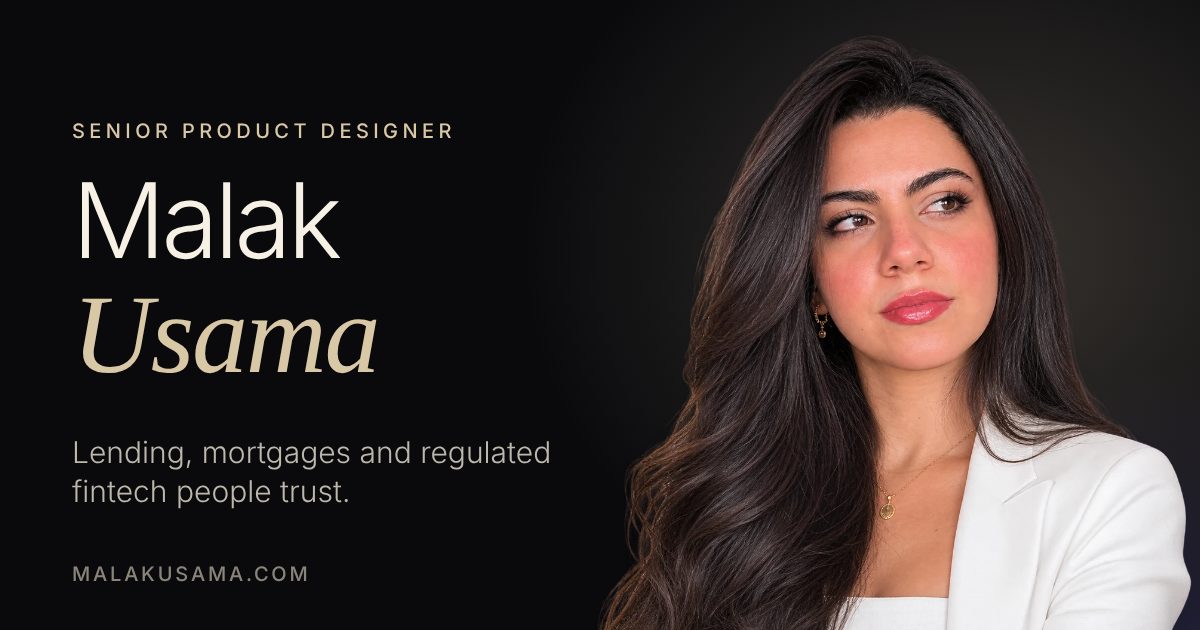
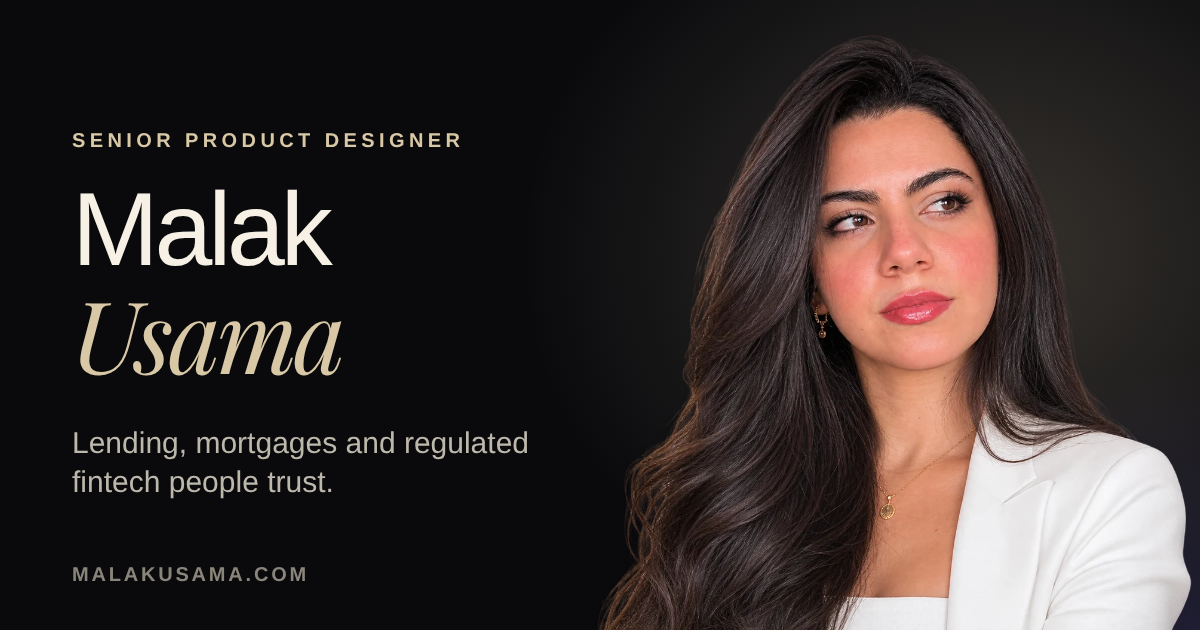
Swap italic accent font to Playfair Display with lining numerals; refresh share image
Claude-Session: https://claude.ai/code/session_016TBd8HnehSKzb79idddwLs

diff --git a/m-about.html b/m-about.html
@@ -16,7 +16,7 @@ else if(m&&back[p]===undefined&&0){}
 <body>
 <x-dc>
 <helmet>
-<link href="https://fonts.googleapis.com/css2?family=Cormorant+Garamond:ital,wght@1,300;1,400&family=Inter+Tight:ital,wght@0,300;0,400;0,500;1,300;1,400&family=Inter:wght@400;500;600&display=swap" rel="stylesheet">
+<link href="https://fonts.googleapis.com/css2?family=Playfair+Display:ital,wght@1,400;1,500&family=Inter+Tight:ital,wght@0,300;0,400;0,500;1,300;1,400&family=Inter:wght@400;500;600&display=swap" rel="stylesheet">
 <style>
 html{scroll-behavior:smooth;-webkit-text-size-adjust:100%}
 body{margin:0;background:#050505;color:#f6f1e4;font-family:Inter,system-ui,sans-serif;-webkit-font-smoothing:antialiased;overflow-x:hidden}
@@ -28,7 +28,7 @@ h1,h2,h3,p,figure{margin:0}
 .gl{position:absolute;border-radius:50%;filter:blur(60px);animation:drift 18s ease-in-out infinite}
 @keyframes drift{0%,100%{transform:translate(0,0) scale(1)}50%{transform:translate(24px,-20px) scale(1.08)}}
 .bar{position:sticky;top:0;z-index:50;display:flex;align-items:center;justify-content:space-between;height:64px;padding:0 20px;background:rgba(5,5,5,.72);-webkit-backdrop-filter:blur(14px);backdrop-filter:blur(14px);border-bottom:1px solid rgba(255,255,255,.06)}
-.wm{font-family:'Cormorant Garamond',Georgia,serif;font-style:italic;font-weight:400;font-size:26px;letter-spacing:.01em;color:#f6f1e4;line-height:1}
+.wm{font-family:'Playfair Display',Georgia,serif;font-size-adjust:.46;font-variant-numeric:lining-nums;font-style:italic;font-weight:400;font-size:26px;letter-spacing:.01em;color:#f6f1e4;line-height:1}
 .mb{display:inline-flex;align-items:center;gap:10px;height:44px;padding:0 18px;border-radius:999px;border:1px solid rgba(255,255,255,.22);background:rgba(255,255,255,.06);color:#f6f1e4;font:500 14px Inter,sans-serif;cursor:pointer}
 .mb i{display:block;width:14px;height:8px;border-top:1.5px solid #f6f1e4;border-bottom:1.5px solid #f6f1e4;position:relative}
 .ov{position:fixed;inset:0;z-index:120;background:rgba(5,5,5,.97);-webkit-backdrop-filter:blur(18px);backdrop-filter:blur(18px);display:flex;flex-direction:column;padding:0 20px 32px;transition:opacity .35s ease,transform .45s cubic-bezier(.2,.7,.2,1)}
@@ -47,7 +47,7 @@ h1,h2,h3,p,figure{margin:0}
 .pf .st{position:absolute;inset:0;-webkit-mask-image:linear-gradient(180deg,#000 64%,transparent 100%);mask-image:linear-gradient(180deg,#000 64%,transparent 100%)}
 .pf img{width:100%;height:100%;object-fit:contain;object-position:50% 100%;display:block;filter:grayscale(1) contrast(1.05) brightness(.7);transition:filter .6s ease}
 .pf:active img{filter:grayscale(.2) contrast(1.02) brightness(.9)}
-.tap{position:absolute;left:0;right:0;bottom:6%;text-align:center;font:italic 300 20px 'Cormorant Garamond',Georgia,serif;color:#cfcac0;z-index:3}
+.tap{position:absolute;left:0;right:0;bottom:6%;text-align:center;font:italic 300 20px 'Playfair Display',Georgia,serif;font-size-adjust:.46;font-variant-numeric:lining-nums;color:#cfcac0;z-index:3}
 .sub{position:relative;z-index:3;margin-top:-6px;font-size:18px;line-height:1.6;font-weight:300;color:#cfcac0}
 .cta{position:relative;z-index:3;margin-top:28px;display:flex;gap:12px}
 .bt{flex:1;display:inline-flex;align-items:center;justify-content:center;height:54px;border-radius:999px;font:500 15px Inter,sans-serif;border:1px solid rgba(255,255,255,.26);color:#f6f1e4;background:linear-gradient(135deg,rgba(255,255,255,.16),rgba(255,255,255,.05))}
@@ -67,7 +67,7 @@ h1,h2,h3,p,figure{margin:0}
 .k{font-size:12px;letter-spacing:.2em;text-transform:uppercase;color:#8d8a84}
 .t2{margin-top:12px;font:300 40px/1.08 'Inter Tight',Inter,sans-serif;letter-spacing:-.035em}
 .t2 em{font-style:italic;color:#D9C8A6}
-.hint{font:italic 300 18px 'Cormorant Garamond',Georgia,serif;color:#a7a29a;white-space:nowrap;padding-bottom:6px}
+.hint{font:italic 300 18px 'Playfair Display',Georgia,serif;font-size-adjust:.46;font-variant-numeric:lining-nums;color:#a7a29a;white-space:nowrap;padding-bottom:6px}
 .sn{display:flex;align-items:flex-start;gap:14px;overflow-x:auto;scroll-snap-type:x mandatory;padding:34px 20px 8px;scroll-padding-left:20px;-webkit-overflow-scrolling:touch;scrollbar-width:none}
 .sn::-webkit-scrollbar{display:none}
 .wc{flex:0 0 82%;scroll-snap-align:start;display:flex;flex-direction:column;color:#f6f1e4}
@@ -83,7 +83,7 @@ h1,h2,h3,p,figure{margin:0}
 .wb{margin-top:14px;display:inline-flex;align-items:center;gap:8px;font:500 14px Inter,sans-serif;color:#f6f1e4;height:44px}
 .hw{padding:34px 20px 0;display:flex;flex-direction:column;gap:12px}
 .hc{padding:24px;border:1px solid rgba(255,255,255,.12);border-radius:24px;background:rgba(255,255,255,.03)}
-.hn{font:italic 300 54px/1 'Cormorant Garamond',Georgia,serif;color:#D9C8A6}
+.hn{font:italic 300 54px/1 'Playfair Display',Georgia,serif;font-size-adjust:.46;font-variant-numeric:lining-nums;color:#D9C8A6}
 .hc h3{margin-top:14px;font:400 24px/1.2 'Inter Tight',Inter,sans-serif;letter-spacing:-.02em}
 .hc p{margin-top:10px;font-size:15.5px;line-height:1.65;color:#a7a29a}
 .rc{flex:0 0 84%;scroll-snap-align:start;display:flex;flex-direction:column;justify-content:space-between;gap:26px;padding:26px;border:1px solid rgba(255,255,255,.12);border-radius:24px;background:rgba(255,255,255,.03)}
@@ -115,7 +115,7 @@ h1,h2,h3,p,figure{margin:0}
 @media (prefers-reduced-motion:reduce){.gl,.mt{animation:none}.h1,.pf{transform:none !important}.rvl{animation:none}html{scroll-behavior:auto}}
 
 .ah{position:relative;padding:30px 20px 0}
-.hi{font:italic 300 26px 'Cormorant Garamond',Georgia,serif;color:#D9C8A6}
+.hi{font:italic 300 26px 'Playfair Display',Georgia,serif;font-size-adjust:.46;font-variant-numeric:lining-nums;color:#D9C8A6}
 .ap{display:flex;align-items:center;gap:16px;margin:20px 0 0}
 .ap img{flex:0 0 72px;width:72px;height:72px;border-radius:50%;object-fit:cover;object-position:50% 22%;display:block;border:1px solid rgba(255,255,255,.18);filter:grayscale(.15)}
 .apc{display:flex;flex-direction:column;gap:3px}
@@ -145,10 +145,10 @@ h1,h2,h3,p,figure{margin:0}
 .nw-r{position:relative;display:grid;grid-template-columns:96px minmax(0,1fr) minmax(0,1fr);align-items:baseline;gap:24px;padding:30px 0;border-bottom:1px solid #26262c;transition:padding .35s ease}
 .nw-r:after{content:"";position:absolute;left:0;bottom:-1px;height:1px;width:0;background:#D9C8A6;transition:width .55s ease}
 .nw-r:hover:after{width:100%}.nw-r:hover{padding-left:14px}
-.nw-n{font:italic 300 46px/1 'Cormorant Garamond',serif;color:#5d5542;transition:color .3s}.nw-r:hover .nw-n{color:#D9C8A6}
+.nw-n{font:italic 300 46px/1 'Playfair Display',serif;font-size-adjust:.46;font-variant-numeric:lining-nums;color:#5d5542;transition:color .3s}.nw-r:hover .nw-n{color:#D9C8A6}
 .nb-c .nw-r h4{font:300 clamp(24px,2.7vw,40px)/1.08 'Inter Tight',Inter,sans-serif;letter-spacing:-.03em}
 .nb-c .nw-r p{font-size:16px;max-width:34ch;justify-self:start}
-.nw-q{margin-top:52px;font:italic 300 clamp(28px,3.6vw,52px)/1.1 'Cormorant Garamond',serif;color:#f6f1e4;max-width:26ch;text-wrap:balance}
+.nw-q{margin-top:52px;font:italic 300 clamp(28px,3.6vw,52px)/1.1 'Playfair Display',serif;font-size-adjust:.46;font-variant-numeric:lining-nums;color:#f6f1e4;max-width:26ch;text-wrap:balance}
 .nw-q em{color:#D9C8A6}
 @media(max-width:760px){.nb-work{padding:30px 22px 30px}.nw-l{margin-top:32px}.nw-r{grid-template-columns:44px minmax(0,1fr);gap:6px 14px;padding:22px 0}.nw-n{font-size:34px;grid-row:1/3;align-self:start}.nb-c .nw-r h4{font-size:24px}.nb-c .nw-r p{grid-column:2;font-size:15px}.nw-r:hover{padding-left:0}.nw-q{margin-top:36px;font-size:30px}}
 .nb-wrap{position:relative;z-index:6;box-sizing:border-box;width:100%;align-self:stretch;max-width:1440px;margin:0 auto;padding:0 56px 40px;font-family:Inter,system-ui,sans-serif;color:#f6f1e4;text-align:left;font-size:15px;line-height:1.5}
@@ -158,7 +158,7 @@ h1,h2,h3,p,figure{margin:0}
 .nb-eb{font-size:12px;letter-spacing:.2em;text-transform:uppercase;color:#a7a29a;margin-bottom:18px}
 .nb-hg{display:grid;grid-template-columns:minmax(0,1fr) auto;gap:clamp(20px,4vw,48px);align-items:center}
 .nb-hd{font:300 clamp(30px,4.2vw,50px)/1.1 'Inter Tight',Inter,sans-serif;letter-spacing:-.03em;margin:0;max-width:22ch;text-wrap:balance;color:#f6f1e4}
-.nb-hd em,.nb-c h3 em{font:italic 300 1.12em/1 'Cormorant Garamond',serif;letter-spacing:0;color:#D9C8A6}
+.nb-hd em,.nb-c h3 em{font:italic 300 1.12em/1 'Playfair Display',serif;font-size-adjust:.46;font-variant-numeric:lining-nums;letter-spacing:0;color:#D9C8A6}
 .nb-sub{color:#a7a29a;max-width:52ch;margin:18px 0 0;font-size:15px;line-height:1.5}
 .nb-mw{position:relative;margin:-24px -30px -24px 0;width:clamp(220px,28vw,400px)}.nb-me{width:100% !important}.nb-bub{position:absolute;left:-4%;top:12%;background:#f6f1e4;color:#14131a;font-size:15px;font-weight:500;padding:11px 16px;border-radius:18px 18px 18px 4px;white-space:nowrap;box-shadow:0 8px 24px rgba(0,0,0,.4);opacity:0;animation:nbbub .6s 1s cubic-bezier(.2,.7,.2,1) forwards}.nb-b2{top:calc(12% + 54px);left:-14%;border-radius:18px 18px 4px 18px;animation-delay:2.2s}@keyframes nbbub{from{opacity:0;transform:translateY(8px) scale(.92)}to{opacity:1;transform:none}}.nb-me{width:clamp(220px,28vw,400px);height:auto;aspect-ratio:478/358;margin:0;object-fit:cover;display:block;filter:brightness(.8) contrast(1.12) saturate(1.05);-webkit-mask-image:radial-gradient(ellipse 33% 44% at 50% 47%,#000 18%,rgba(0,0,0,.55) 52%,rgba(0,0,0,.15) 80%,transparent 100%);mask-image:radial-gradient(ellipse 33% 44% at 50% 47%,#000 18%,rgba(0,0,0,.55) 52%,rgba(0,0,0,.15) 80%,transparent 100%)}
 .nb-st{display:flex;margin-top:40px;border-top:1px solid #26262c;flex-wrap:wrap}
@@ -175,7 +175,7 @@ h1,h2,h3,p,figure{margin:0}
 .nb-c p{margin:0;color:#a7a29a;line-height:1.6;font-size:15px}
 .nb-c p.nb-l{color:#cfcac0}
 .nb-c p.nb-sub{margin:18px 0 0}
-.nb-num{font:italic 300 30px/1 'Cormorant Garamond',serif;color:#D9C8A6}
+.nb-num{font:italic 300 30px/1 'Playfair Display',serif;font-size-adjust:.46;font-variant-numeric:lining-nums;color:#D9C8A6}
 .nb-role{font-size:12px;letter-spacing:.14em;text-transform:uppercase;color:#D9C8A6}
 .nb-feat{background:linear-gradient(160deg,#14130f,rgba(12,12,16,.92))}
 .nb-fact{display:flex;flex-direction:column;gap:2px;padding:12px 0;border-top:1px solid #26262c}
@@ -184,7 +184,7 @@ h1,h2,h3,p,figure{margin:0}
 .nb-icb{width:52px;height:52px;border:1px solid #26262c;border-radius:14px;display:grid;place-items:center;background:rgba(255,255,255,.02);margin-bottom:6px}
 .nb-cloud{display:flex;flex-wrap:wrap;gap:10px}
 .nb-cloud span{border:1px solid #26262c;border-radius:999px;padding:12px 22px;font:300 clamp(18px,2.2vw,26px)/1 'Inter Tight',Inter,sans-serif;letter-spacing:-.02em;color:#f6f1e4}
-.nb-cloud span:nth-child(3n+1){font:italic 300 clamp(20px,2.5vw,30px)/1 'Cormorant Garamond',serif;color:#D9C8A6;border-color:#4a4333}
+.nb-cloud span:nth-child(3n+1){font:italic 300 clamp(20px,2.5vw,30px)/1 'Playfair Display',serif;font-size-adjust:.46;font-variant-numeric:lining-nums;color:#D9C8A6;border-color:#4a4333}
 .nb-big{font:300 clamp(30px,4.4vw,56px)/1.05 'Inter Tight',Inter,sans-serif;letter-spacing:-.03em;max-width:20ch;color:#f6f1e4;text-wrap:balance}
 .nb-close{padding:44px 36px;min-height:260px;justify-content:flex-end;gap:14px}
 .nb-k{animation:nbkey 3.2s ease-in-out infinite;transform-box:fill-box}.nb-k2{animation-delay:.25s}.nb-k3{animation-delay:.5s}.nb-k4{animation-delay:.75s}

diff --git a/about.html b/about.html
@@ -16,7 +16,7 @@ else if(m&&back[p]===undefined&&0){}
 <body>
 <x-dc>
 <helmet>
-<link href="https://fonts.googleapis.com/css2?family=Cormorant+Garamond:ital,wght@1,300&family=Inter+Tight:ital,wght@0,300;0,400;0,500;1,300;1,400&family=Inter:wght@400;500;600&family=Poppins:wght@300;400;600&display=swap" rel="stylesheet">
+<link href="https://fonts.googleapis.com/css2?family=Playfair+Display:ital,wght@1,400;1,500&family=Inter+Tight:ital,wght@0,300;0,400;0,500;1,300;1,400&family=Inter:wght@400;500;600&family=Poppins:wght@300;400;600&display=swap" rel="stylesheet">
 <style>
 .nh-nav{display:flex;justify-content:center;align-items:center;height:80px;gap:12px;font-size:15px}
 .nh-l{display:flex;gap:28px;flex-wrap:wrap}
@@ -60,10 +60,10 @@ a:hover{color:#f6f1e4}
 .nw-r{position:relative;display:grid;grid-template-columns:96px minmax(0,1fr) minmax(0,1fr);align-items:baseline;gap:24px;padding:30px 0;border-bottom:1px solid #26262c;transition:padding .35s ease}
 .nw-r:after{content:"";position:absolute;left:0;bottom:-1px;height:1px;width:0;background:#D9C8A6;transition:width .55s ease}
 .nw-r:hover:after{width:100%}.nw-r:hover{padding-left:14px}
-.nw-n{font:italic 300 46px/1 'Cormorant Garamond',serif;color:#5d5542;transition:color .3s}.nw-r:hover .nw-n{color:#D9C8A6}
+.nw-n{font:italic 300 46px/1 'Playfair Display',serif;font-size-adjust:.46;font-variant-numeric:lining-nums;color:#5d5542;transition:color .3s}.nw-r:hover .nw-n{color:#D9C8A6}
 .nb-c .nw-r h4{font:300 clamp(24px,2.7vw,40px)/1.08 'Inter Tight',Inter,sans-serif;letter-spacing:-.03em}
 .nb-c .nw-r p{font-size:16px;max-width:34ch;justify-self:start}
-.nw-q{margin-top:52px;font:italic 300 clamp(28px,3.6vw,52px)/1.1 'Cormorant Garamond',serif;color:#f6f1e4;max-width:26ch;text-wrap:balance}
+.nw-q{margin-top:52px;font:italic 300 clamp(28px,3.6vw,52px)/1.1 'Playfair Display',serif;font-size-adjust:.46;font-variant-numeric:lining-nums;color:#f6f1e4;max-width:26ch;text-wrap:balance}
 .nw-q em{color:#D9C8A6}
 @media(max-width:760px){.nb-work{padding:30px 22px 30px}.nw-l{margin-top:32px}.nw-r{grid-template-columns:44px minmax(0,1fr);gap:6px 14px;padding:22px 0}.nw-n{font-size:34px;grid-row:1/3;align-self:start}.nb-c .nw-r h4{font-size:24px}.nb-c .nw-r p{grid-column:2;font-size:15px}.nw-r:hover{padding-left:0}.nw-q{margin-top:36px;font-size:30px}}
 .nb-wrap{position:relative;z-index:6;box-sizing:border-box;width:100%;align-self:stretch;max-width:1440px;margin:0 auto;padding:0 56px 40px;font-family:Inter,system-ui,sans-serif;color:#f6f1e4;text-align:left;font-size:15px;line-height:1.5}
@@ -73,7 +73,7 @@ a:hover{color:#f6f1e4}
 .nb-eb{font-size:12px;letter-spacing:.2em;text-transform:uppercase;color:#a7a29a;margin-bottom:18px}
 .nb-hg{display:grid;grid-template-columns:minmax(0,1fr) auto;gap:clamp(20px,4vw,48px);align-items:center}
 .nb-hd{font:300 clamp(30px,4.2vw,50px)/1.1 'Inter Tight',Inter,sans-serif;letter-spacing:-.03em;margin:0;max-width:22ch;text-wrap:balance;color:#f6f1e4}
-.nb-hd em,.nb-c h3 em{font:italic 300 1.12em/1 'Cormorant Garamond',serif;letter-spacing:0;color:#D9C8A6}
+.nb-hd em,.nb-c h3 em{font:italic 300 1.12em/1 'Playfair Display',serif;font-size-adjust:.46;font-variant-numeric:lining-nums;letter-spacing:0;color:#D9C8A6}
 .nb-sub{color:#a7a29a;max-width:52ch;margin:18px 0 0;font-size:15px;line-height:1.5}
 .nb-mw{position:relative;margin:-24px -30px -24px 0;width:clamp(220px,28vw,400px)}.nb-me{width:100% !important}.nb-bub{position:absolute;left:-4%;top:12%;background:#f6f1e4;color:#14131a;font-size:15px;font-weight:500;padding:11px 16px;border-radius:18px 18px 18px 4px;white-space:nowrap;box-shadow:0 8px 24px rgba(0,0,0,.4);opacity:0;animation:nbbub .6s 1s cubic-bezier(.2,.7,.2,1) forwards}.nb-b2{top:calc(12% + 54px);left:-14%;border-radius:18px 18px 4px 18px;animation-delay:2.2s}@keyframes nbbub{from{opacity:0;transform:translateY(8px) scale(.92)}to{opacity:1;transform:none}}.nb-me{width:clamp(220px,28vw,400px);height:auto;aspect-ratio:478/358;margin:0;object-fit:cover;display:block;filter:brightness(.8) contrast(1.12) saturate(1.05);-webkit-mask-image:radial-gradient(ellipse 33% 44% at 50% 47%,#000 18%,rgba(0,0,0,.55) 52%,rgba(0,0,0,.15) 80%,transparent 100%);mask-image:radial-gradient(ellipse 33% 44% at 50% 47%,#000 18%,rgba(0,0,0,.55) 52%,rgba(0,0,0,.15) 80%,transparent 100%)}
 .nb-st{display:flex;margin-top:40px;border-top:1px solid #26262c;flex-wrap:wrap}
@@ -90,7 +90,7 @@ a:hover{color:#f6f1e4}
 .nb-c p{margin:0;color:#a7a29a;line-height:1.6;font-size:15px}
 .nb-c p.nb-l{color:#cfcac0}
 .nb-c p.nb-sub{margin:18px 0 0}
-.nb-num{font:italic 300 30px/1 'Cormorant Garamond',serif;color:#D9C8A6}
+.nb-num{font:italic 300 30px/1 'Playfair Display',serif;font-size-adjust:.46;font-variant-numeric:lining-nums;color:#D9C8A6}
 .nb-role{font-size:12px;letter-spacing:.14em;text-transform:uppercase;color:#D9C8A6}
 .nb-feat{background:linear-gradient(160deg,#14130f,rgba(12,12,16,.92))}
 .nb-fact{display:flex;flex-direction:column;gap:2px;padding:12px 0;border-top:1px solid #26262c}
@@ -99,7 +99,7 @@ a:hover{color:#f6f1e4}
 .nb-icb{width:52px;height:52px;border:1px solid #26262c;border-radius:14px;display:grid;place-items:center;background:rgba(255,255,255,.02);margin-bottom:6px}
 .nb-cloud{display:flex;flex-wrap:wrap;gap:10px}
 .nb-cloud span{border:1px solid #26262c;border-radius:999px;padding:12px 22px;font:300 clamp(18px,2.2vw,26px)/1 'Inter Tight',Inter,sans-serif;letter-spacing:-.02em;color:#f6f1e4}
-.nb-cloud span:nth-child(3n+1){font:italic 300 clamp(20px,2.5vw,30px)/1 'Cormorant Garamond',serif;color:#D9C8A6;border-color:#4a4333}
+.nb-cloud span:nth-child(3n+1){font:italic 300 clamp(20px,2.5vw,30px)/1 'Playfair Display',serif;font-size-adjust:.46;font-variant-numeric:lining-nums;color:#D9C8A6;border-color:#4a4333}
 .nb-big{font:300 clamp(30px,4.4vw,56px)/1.05 'Inter Tight',Inter,sans-serif;letter-spacing:-.03em;max-width:20ch;color:#f6f1e4;text-wrap:balance}
 .nb-close{padding:44px 36px;min-height:260px;justify-content:flex-end;gap:14px}
 .nb-k{animation:nbkey 3.2s ease-in-out infinite;transform-box:fill-box}.nb-k2{animation-delay:.25s}.nb-k3{animation-delay:.5s}.nb-k4{animation-delay:.75s}

diff --git a/m.html b/m.html
@@ -16,7 +16,7 @@ else if(m&&back[p]===undefined&&0){}
 <body>
 <x-dc>
 <helmet>
-<link href="https://fonts.googleapis.com/css2?family=Cormorant+Garamond:ital,wght@1,300;1,400&family=Inter+Tight:ital,wght@0,300;0,400;0,500;1,300;1,400&family=Inter:wght@400;500;600&display=swap" rel="stylesheet">
+<link href="https://fonts.googleapis.com/css2?family=Playfair+Display:ital,wght@1,400;1,500&family=Inter+Tight:ital,wght@0,300;0,400;0,500;1,300;1,400&family=Inter:wght@400;500;600&display=swap" rel="stylesheet">
 <style>
 html{scroll-behavior:smooth;-webkit-text-size-adjust:100%}
 body{margin:0;background:#050505;color:#f6f1e4;font-family:Inter,system-ui,sans-serif;-webkit-font-smoothing:antialiased;overflow-x:hidden}
@@ -28,7 +28,7 @@ h1,h2,h3,p,figure{margin:0}
 .gl{position:absolute;border-radius:50%;filter:blur(60px);animation:drift 18s ease-in-out infinite}
 @keyframes drift{0%,100%{transform:translate(0,0) scale(1)}50%{transform:translate(24px,-20px) scale(1.08)}}
 .bar{position:sticky;top:0;z-index:50;display:flex;align-items:center;justify-content:space-between;height:64px;padding:0 20px;background:rgba(5,5,5,.72);-webkit-backdrop-filter:blur(14px);backdrop-filter:blur(14px);border-bottom:1px solid rgba(255,255,255,.06)}
-.wm{font-family:'Cormorant Garamond',Georgia,serif;font-style:italic;font-weight:400;font-size:26px;letter-spacing:.01em;color:#f6f1e4;line-height:1}
+.wm{font-family:'Playfair Display',Georgia,serif;font-size-adjust:.46;font-variant-numeric:lining-nums;font-style:italic;font-weight:400;font-size:26px;letter-spacing:.01em;color:#f6f1e4;line-height:1}
 .mb{display:inline-flex;align-items:center;gap:10px;height:44px;padding:0 18px;border-radius:999px;border:1px solid rgba(255,255,255,.22);background:rgba(255,255,255,.06);color:#f6f1e4;font:500 14px Inter,sans-serif;cursor:pointer}
 .mb i{display:block;width:14px;height:8px;border-top:1.5px solid #f6f1e4;border-bottom:1.5px solid #f6f1e4;position:relative}
 .ov{position:fixed;inset:0;z-index:120;background:rgba(5,5,5,.97);-webkit-backdrop-filter:blur(18px);backdrop-filter:blur(18px);display:flex;flex-direction:column;padding:0 20px 32px;transition:opacity .35s ease,transform .45s cubic-bezier(.2,.7,.2,1)}
@@ -47,7 +47,7 @@ h1,h2,h3,p,figure{margin:0}
 .pf .st{position:absolute;inset:0;-webkit-mask-image:linear-gradient(180deg,#000 64%,transparent 100%);mask-image:linear-gradient(180deg,#000 64%,transparent 100%)}
 .pf img{width:100%;height:100%;object-fit:contain;object-position:50% 100%;display:block;filter:grayscale(1) contrast(1.05) brightness(.7);transition:filter .6s ease}
 .pf:active img{filter:grayscale(.2) contrast(1.02) brightness(.9)}
-.tap{position:absolute;left:0;right:0;bottom:6%;text-align:center;font:italic 300 20px 'Cormorant Garamond',Georgia,serif;color:#cfcac0;z-index:3}
+.tap{position:absolute;left:0;right:0;bottom:6%;text-align:center;font:italic 300 20px 'Playfair Display',Georgia,serif;font-size-adjust:.46;font-variant-numeric:lining-nums;color:#cfcac0;z-index:3}
 .sub{position:relative;z-index:3;margin-top:-6px;font-size:18px;line-height:1.6;font-weight:300;color:#cfcac0}
 .cta{position:relative;z-index:3;margin-top:28px;display:flex;gap:12px}
 .bt{flex:1;display:inline-flex;align-items:center;justify-content:center;height:54px;border-radius:999px;font:500 15px Inter,sans-serif;border:1px solid rgba(255,255,255,.26);color:#f6f1e4;background:linear-gradient(135deg,rgba(255,255,255,.16),rgba(255,255,255,.05))}
@@ -67,7 +67,7 @@ h1,h2,h3,p,figure{margin:0}
 .k{font-size:12px;letter-spacing:.2em;text-transform:uppercase;color:#8d8a84}
 .t2{margin-top:12px;font:300 40px/1.08 'Inter Tight',Inter,sans-serif;letter-spacing:-.035em}
 .t2 em{font-style:italic;color:#D9C8A6}
-.hint{font:italic 300 18px 'Cormorant Garamond',Georgia,serif;color:#a7a29a;white-space:nowrap;padding-bottom:6px}
+.hint{font:italic 300 18px 'Playfair Display',Georgia,serif;font-size-adjust:.46;font-variant-numeric:lining-nums;color:#a7a29a;white-space:nowrap;padding-bottom:6px}
 .sn{display:flex;align-items:flex-start;gap:14px;overflow-x:auto;scroll-snap-type:x mandatory;padding:34px 20px 8px;scroll-padding-left:20px;-webkit-overflow-scrolling:touch;scrollbar-width:none}
 .sn::-webkit-scrollbar{display:none}
 .wc{flex:0 0 82%;scroll-snap-align:start;display:flex;flex-direction:column;color:#f6f1e4}
@@ -85,7 +85,7 @@ h1,h2,h3,p,figure{margin:0}
 .wb{margin-top:14px;display:inline-flex;align-items:center;gap:8px;font:500 14px Inter,sans-serif;color:#f6f1e4;height:44px}
 .hw{padding:34px 20px 0;display:flex;flex-direction:column;gap:12px}
 .hc{padding:24px;border:1px solid rgba(255,255,255,.12);border-radius:24px;background:rgba(255,255,255,.03)}
-.hn{font:italic 300 54px/1 'Cormorant Garamond',Georgia,serif;color:#D9C8A6}
+.hn{font:italic 300 54px/1 'Playfair Display',Georgia,serif;font-size-adjust:.46;font-variant-numeric:lining-nums;color:#D9C8A6}
 .hc h3{margin-top:14px;font:400 24px/1.2 'Inter Tight',Inter,sans-serif;letter-spacing:-.02em}
 .hc p{margin-top:10px;font-size:15.5px;line-height:1.65;color:#a7a29a}
 .rc{flex:0 0 84%;scroll-snap-align:start;display:flex;flex-direction:column;justify-content:space-between;gap:26px;padding:26px;border:1px solid rgba(255,255,255,.12);border-radius:24px;background:rgba(255,255,255,.03)}

diff --git a/index.html b/index.html
@@ -16,7 +16,7 @@ else if(m&&back[p]===undefined&&0){}
 <body>
 <x-dc>
 <helmet>
-<link href="https://fonts.googleapis.com/css2?family=Cormorant+Garamond:ital,wght@1,300&family=Inter+Tight:ital,wght@0,300;0,400;0,500;1,300;1,400&family=Inter:wght@400;500;600&family=Poppins:wght@300;400;600&display=swap" rel="stylesheet">
+<link href="https://fonts.googleapis.com/css2?family=Playfair+Display:ital,wght@1,400;1,500&family=Inter+Tight:ital,wght@0,300;0,400;0,500;1,300;1,400&family=Inter:wght@400;500;600&family=Poppins:wght@300;400;600&display=swap" rel="stylesheet">
 <style>
 .hw{display:flex;gap:14px;height:380px;margin-top:44px}@media(max-width:900px){.hw{flex-direction:column;height:auto}.hw>div{flex:none !important}.hw .hwt{max-height:none !important;opacity:1 !important}}
 body{margin:0;background:#050505}
@@ -62,7 +62,7 @@ a:hover{color:#f6f1e4}
 .nh-big{position:absolute;inset:0;margin:0;font-family:'Inter Tight',Inter,system-ui,sans-serif;font-weight:300;letter-spacing:-.055em;line-height:.88;font-size:var(--f);color:#f6f1e4;z-index:1;pointer-events:none}
 .nh-big span{position:absolute;white-space:nowrap}.nh-big em{font-style:italic;font-weight:300}
 .nh-a{left:0;top:.38em}.nh-b{right:0;top:1.46em}.nh-c{left:0;top:2.54em}.nh-d{right:0;top:3.62em}
-.nh-eb{position:absolute;left:0;top:8px;z-index:3;display:flex;align-items:center;gap:16px;color:#8f8c85}.nh-eb .nm{font-family:"Cormorant Garamond",Georgia,serif;font-style:italic;font-weight:400;font-size:26px;letter-spacing:.01em;text-transform:none;color:#f6f1e4;line-height:1}.nh-eb .ru{width:44px;height:1px;background:linear-gradient(90deg,#D9C8A6,rgba(255,255,255,.15))}.nh-eb .rl{font-size:11px;letter-spacing:.32em;text-transform:uppercase;color:#a7a29a}
+.nh-eb{position:absolute;left:0;top:8px;z-index:3;display:flex;align-items:center;gap:16px;color:#8f8c85}.nh-eb .nm{font-family:"Playfair Display",Georgia,serif;font-size-adjust:.46;font-variant-numeric:lining-nums;font-style:italic;font-weight:400;font-size:26px;letter-spacing:.01em;text-transform:none;color:#f6f1e4;line-height:1}.nh-eb .ru{width:44px;height:1px;background:linear-gradient(90deg,#D9C8A6,rgba(255,255,255,.15))}.nh-eb .rl{font-size:11px;letter-spacing:.32em;text-transform:uppercase;color:#a7a29a}
 .nh-bl{position:absolute;left:0;bottom:20px;z-index:3;max-width:370px;display:flex;flex-direction:column;gap:22px}
 .nh-sub{margin:0;font-size:18px;line-height:1.6;font-weight:300;color:#cfcac0}
 .nh-btns{display:flex;gap:12px;flex-wrap:wrap}
@@ -613,13 +613,13 @@ class Component extends DCLogic {
         n: d[0], t: d[1], d: d[2],
         enter: () => { this._hwHold = true; this.setState({ hw: k }); },
         box: 'position:relative;overflow:hidden;box-sizing:border-box;min-width:0;border-radius:24px;padding:30px;display:flex;flex-direction:column;justify-content:space-between;cursor:default;transition:flex .8s cubic-bezier(.2,.8,.2,1),background .6s ease,border-color .6s ease;flex:' + (on ? 3.4 : 1) + ' 1 0;border:1px solid ' + (on ? 'rgba(217,200,166,0.5)' : 'rgba(255,255,255,0.12)') + ';background:' + (on ? 'radial-gradient(120% 90% at 0% 0%,rgba(217,200,166,0.16),rgba(255,255,255,0.03) 60%)' : 'rgba(255,255,255,0.03)'),
-        num: "font-family:'Cormorant Garamond',Georgia,serif;font-style:italic;font-weight:300;line-height:1;transition:font-size .6s ease,color .6s ease;color:" + (on ? hwAcc : '#6f6c66') + ';font-size:' + (on ? 84 : 40) + 'px',
+        num: "font-family:'Playfair Display',Georgia,serif;font-size-adjust:.46;font-variant-numeric:lining-nums;font-style:italic;font-weight:300;line-height:1;transition:font-size .6s ease,color .6s ease;color:" + (on ? hwAcc : '#6f6c66') + ';font-size:' + (on ? 84 : 40) + 'px',
         title: "font-family:'Inter Tight',Inter,sans-serif;letter-spacing:-0.02em;margin-top:18px;transition:font-size .6s ease;font-size:" + (on ? 32 : 20) + 'px;color:' + (on ? '#f6f1e4' : '#b9b4a8'),
         text: 'font-size:16px;line-height:1.6;color:#a7a29a;max-width:460px;overflow:hidden;transition:opacity .6s ease .15s,max-height .7s ease;opacity:' + (on ? 1 : 0) + ';max-height:' + (on ? 160 : 0) + 'px;margin-top:' + (on ? 14 : 0) + 'px',
       };
     });
     const hwLeave = () => { this._hwHold = false; };
-    const nhRt = 'position:absolute;z-index:42;pointer-events:none;transform:translate(-50%,-50%);text-align:center;font-family:\'Cormorant Garamond\',Georgia,serif;font-style:italic;font-weight:300;font-size:22px;line-height:1.1;color:#f6f1e4;text-shadow:0 2px 18px rgba(0,0,0,0.85);left:' + hcx.toFixed(1) + 'px;top:' + hcy.toFixed(1) + 'px;opacity:' + (hopen ? 0 : Math.min(1, hr / 105)).toFixed(2);
+    const nhRt = 'position:absolute;z-index:42;pointer-events:none;transform:translate(-50%,-50%);text-align:center;font-family:\'Playfair Display\',Georgia,serif;font-size-adjust:.46;font-variant-numeric:lining-nums;font-style:italic;font-weight:300;font-size:22px;line-height:1.1;color:#f6f1e4;text-shadow:0 2px 18px rgba(0,0,0,0.85);left:' + hcx.toFixed(1) + 'px;top:' + hcy.toFixed(1) + 'px;opacity:' + (hopen ? 0 : Math.min(1, hr / 105)).toFixed(2);
     const nhMove = (e) => {
       const h = this._h, g = this._nhGeo();
       if (!g || h.open) return;
